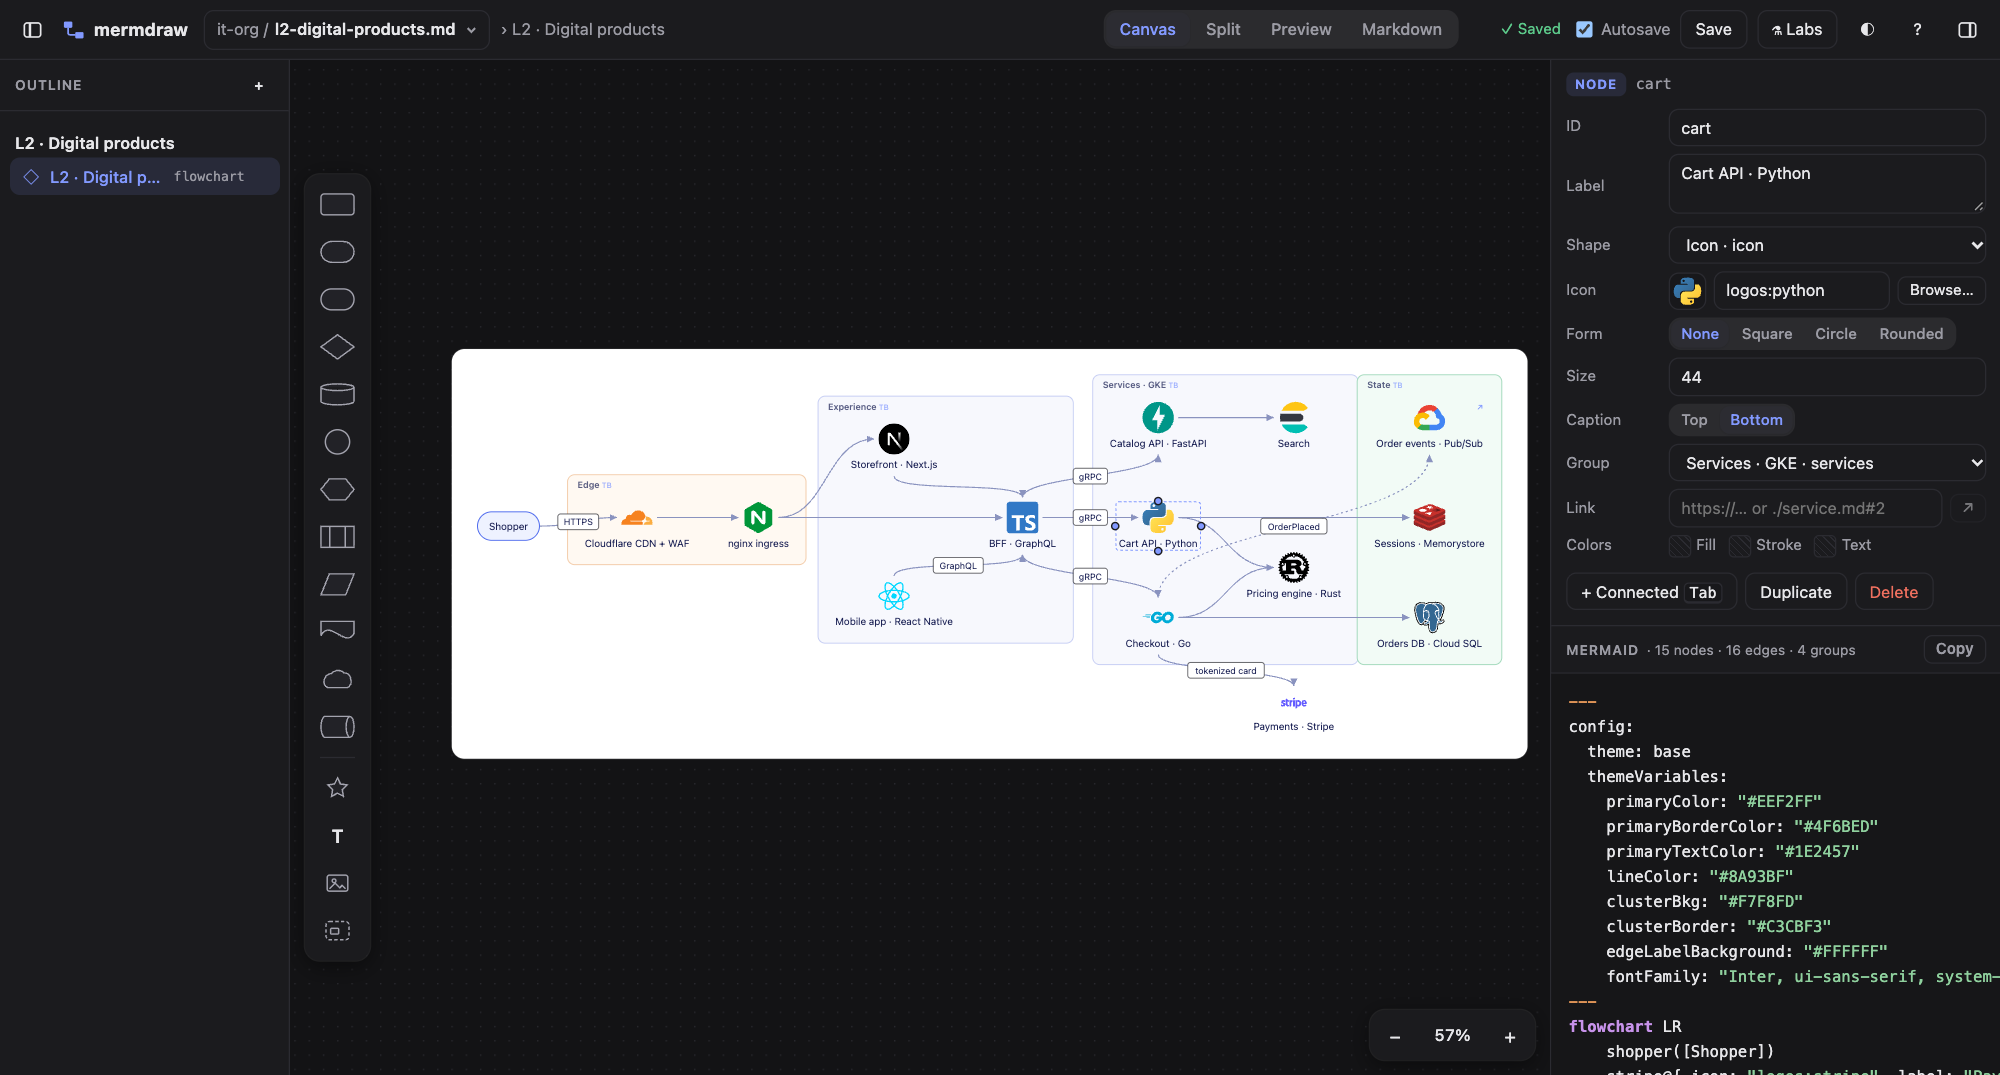
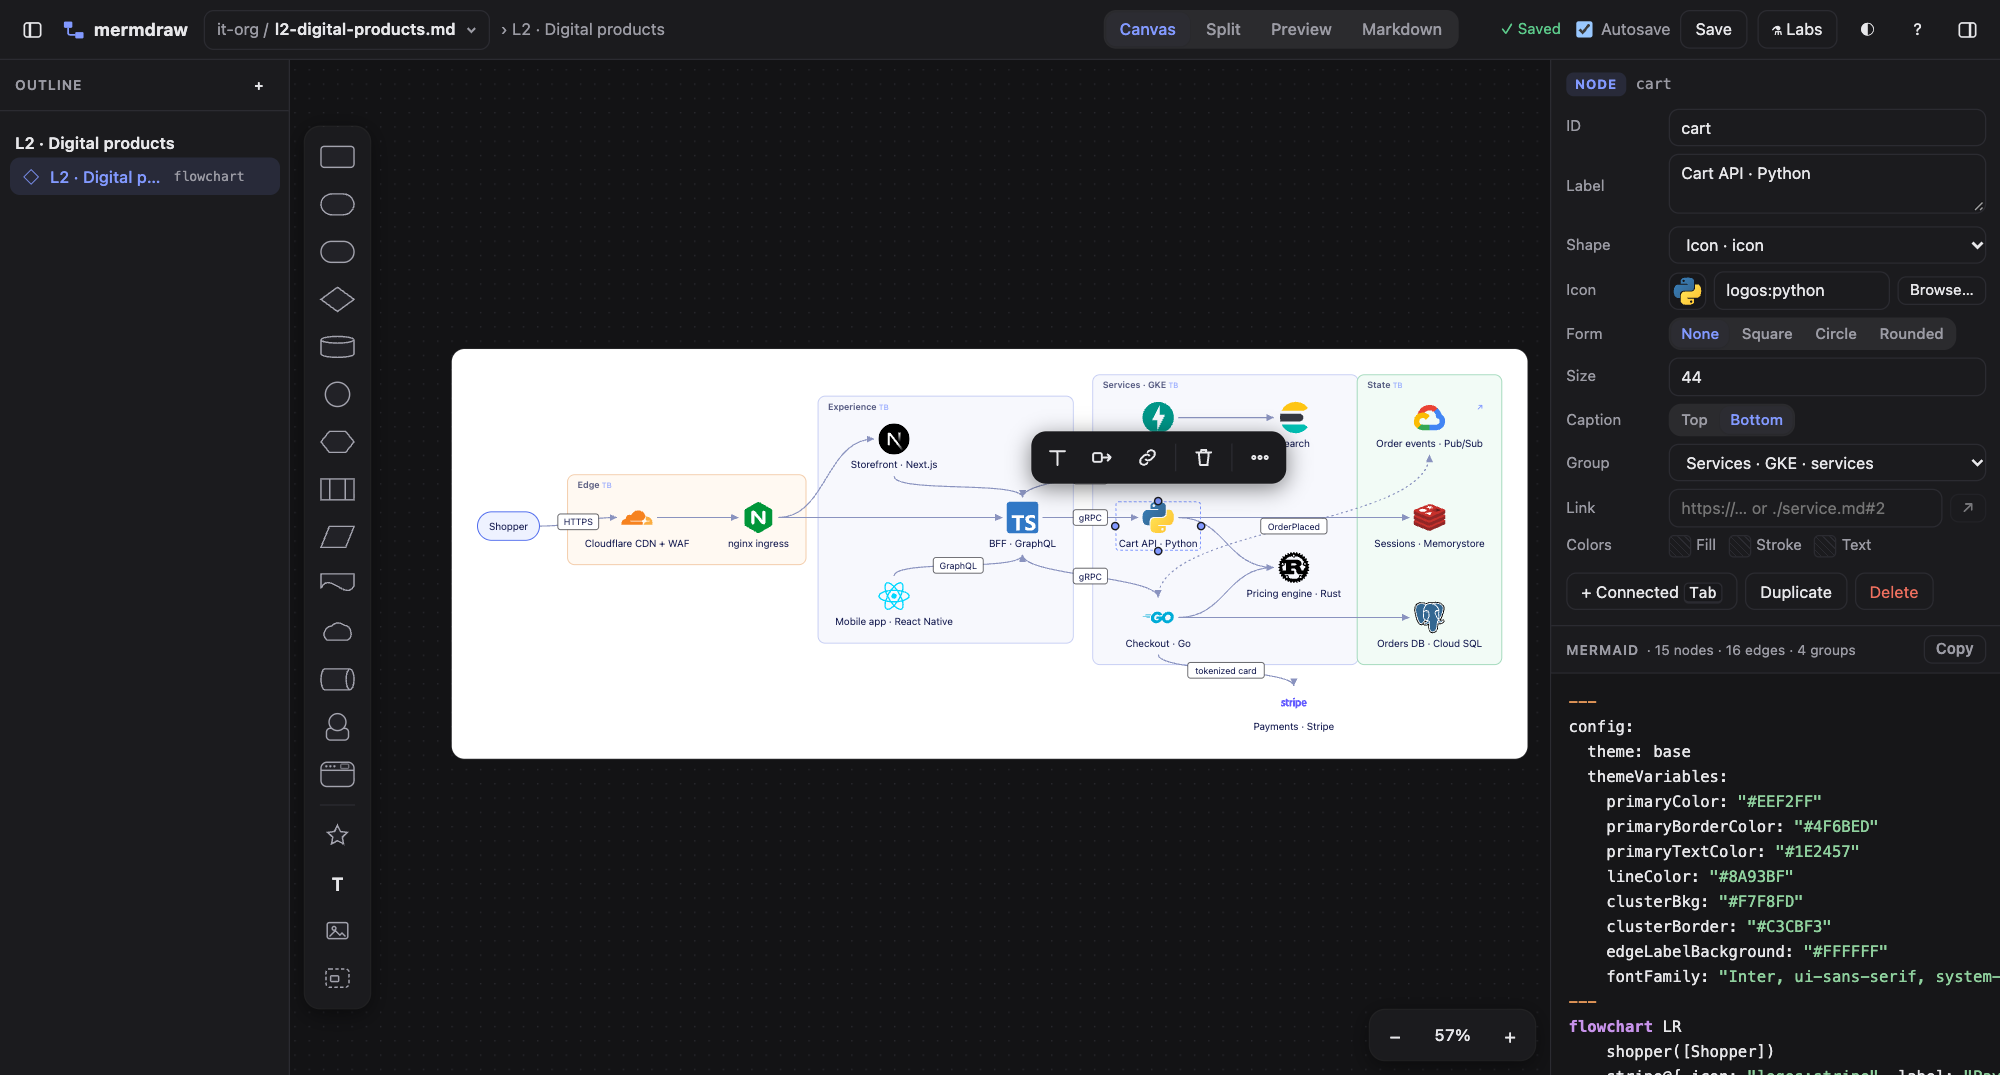
Prepare v0.1.0-rc.4
Fourth release candidate: everything since rc.3 (file picker,
collapsible panels, the selection toolbar, double-click editing, edge
ids, mermaid 12.2.0, the 11.17 shapes and collapsed subgraphs).

- Version 0.1.0-rc.4; the README's pre-release download example
  points at it
- README: Labs styles offer neo / classic / hand-drawn looks
- Refresh the README screenshots (the hero shows the selection
  toolbar, the palette has person and browser)

diff --git a/README.md b/README.md
@@ -66,8 +66,8 @@ mermdraw docs/architecture.md        # opens the editor in your browser
   Kubernetes, Cloud Run, Okta, Grafana, Proxmox…), globally or vendored into the repo. Find them with a searchable picker.
 - **Drill-down:** link a node to another diagram (`./l2-platform.md#2`). <kbd>⌘</kbd>-click drills in, and a
   **← back** chip (<kbd>⌘[</kbd>) returns.
-- **Diagram styles** (Labs): palettes, a hand-drawn look and orthogonal lines, written as mermaid frontmatter config,
-  so GitHub renders them too.
+- **Diagram styles** (Labs): palettes, neo / classic / hand-drawn looks and orthogonal lines, written as mermaid
+  frontmatter config, so GitHub renders them too.
 
 **Small and safe**
 - One ~2.2 MB std-only Rust binary: no runtime, no dependencies, starts instantly. `--app` opens a chromeless window.
@@ -93,7 +93,7 @@ sudo mv "mermdraw-$target/mermdraw" /usr/local/bin/
 ```
 
 `latest` skips pre-releases. To try a release candidate, put its tag in the URL instead, e.g.
-`https://github.com/berttoli/mermdraw/releases/download/v0.1.0-rc.3/mermdraw-$target.tar.gz`, or grab it from the
+`https://github.com/berttoli/mermdraw/releases/download/v0.1.0-rc.4/mermdraw-$target.tar.gz`, or grab it from the
 [releases page](https://github.com/berttoli/mermdraw/releases); `mermdraw --version` tells you which build you have.
 
 On Windows, download `mermdraw-x86_64-pc-windows-msvc.zip`. Every archive is listed in `SHA256SUMS.txt` and carries a
